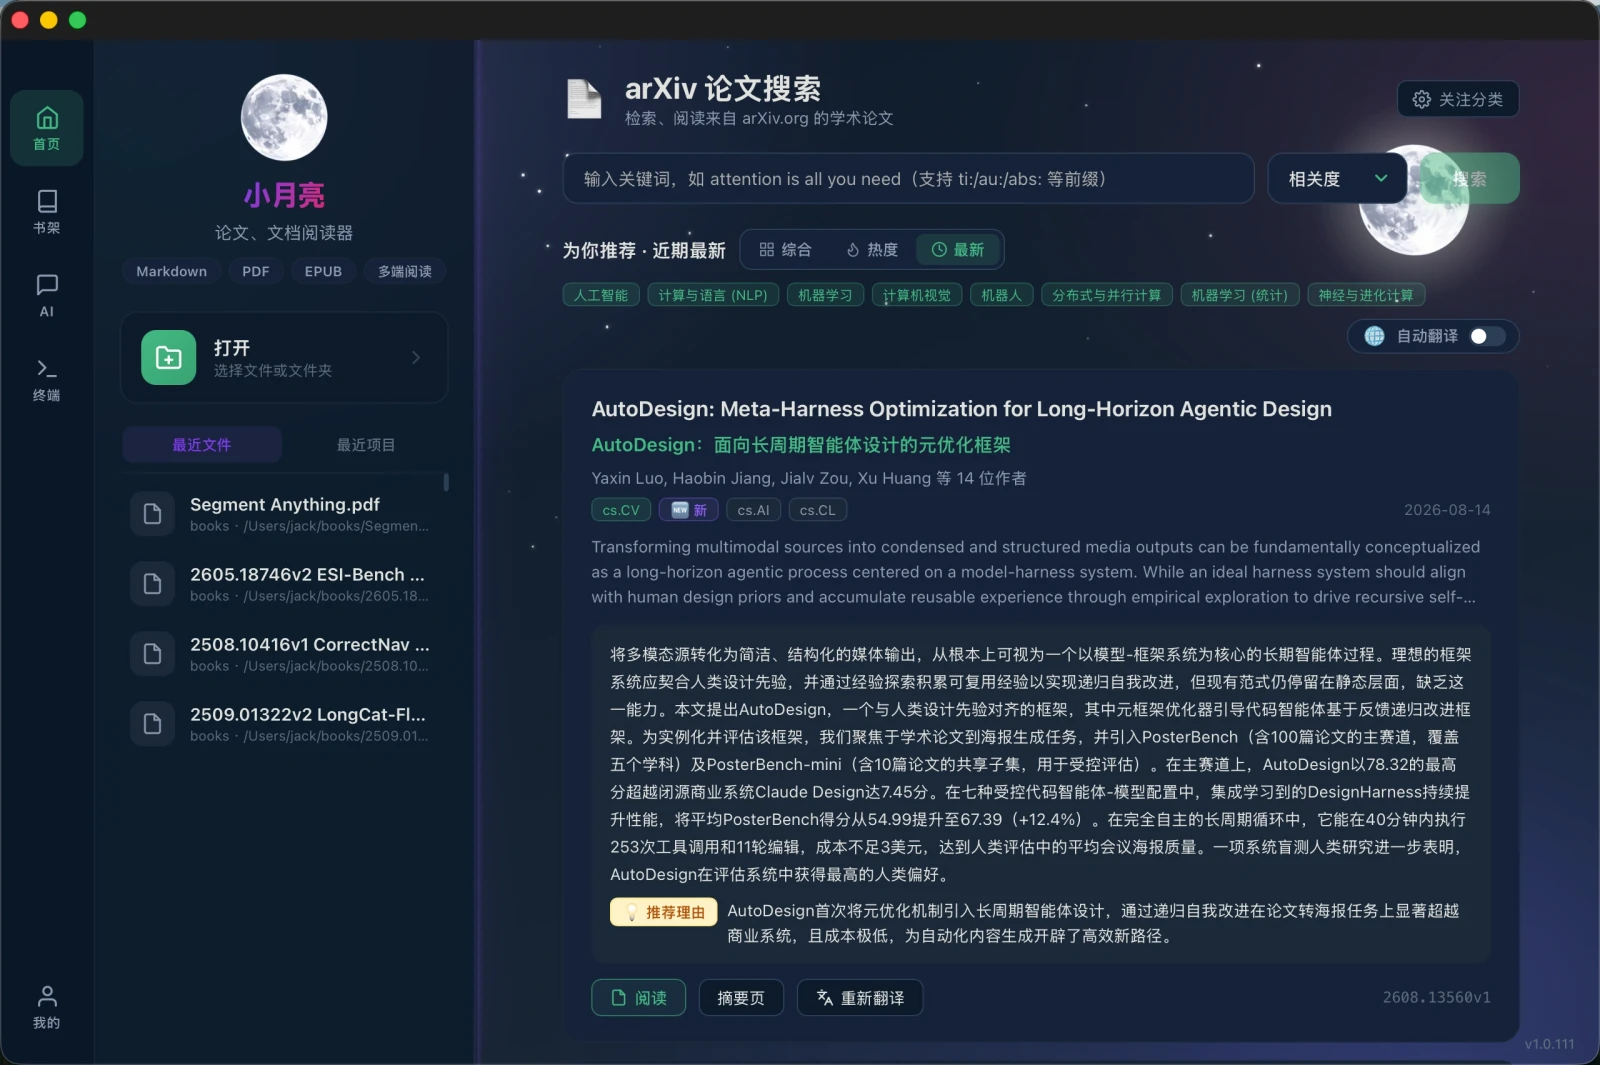
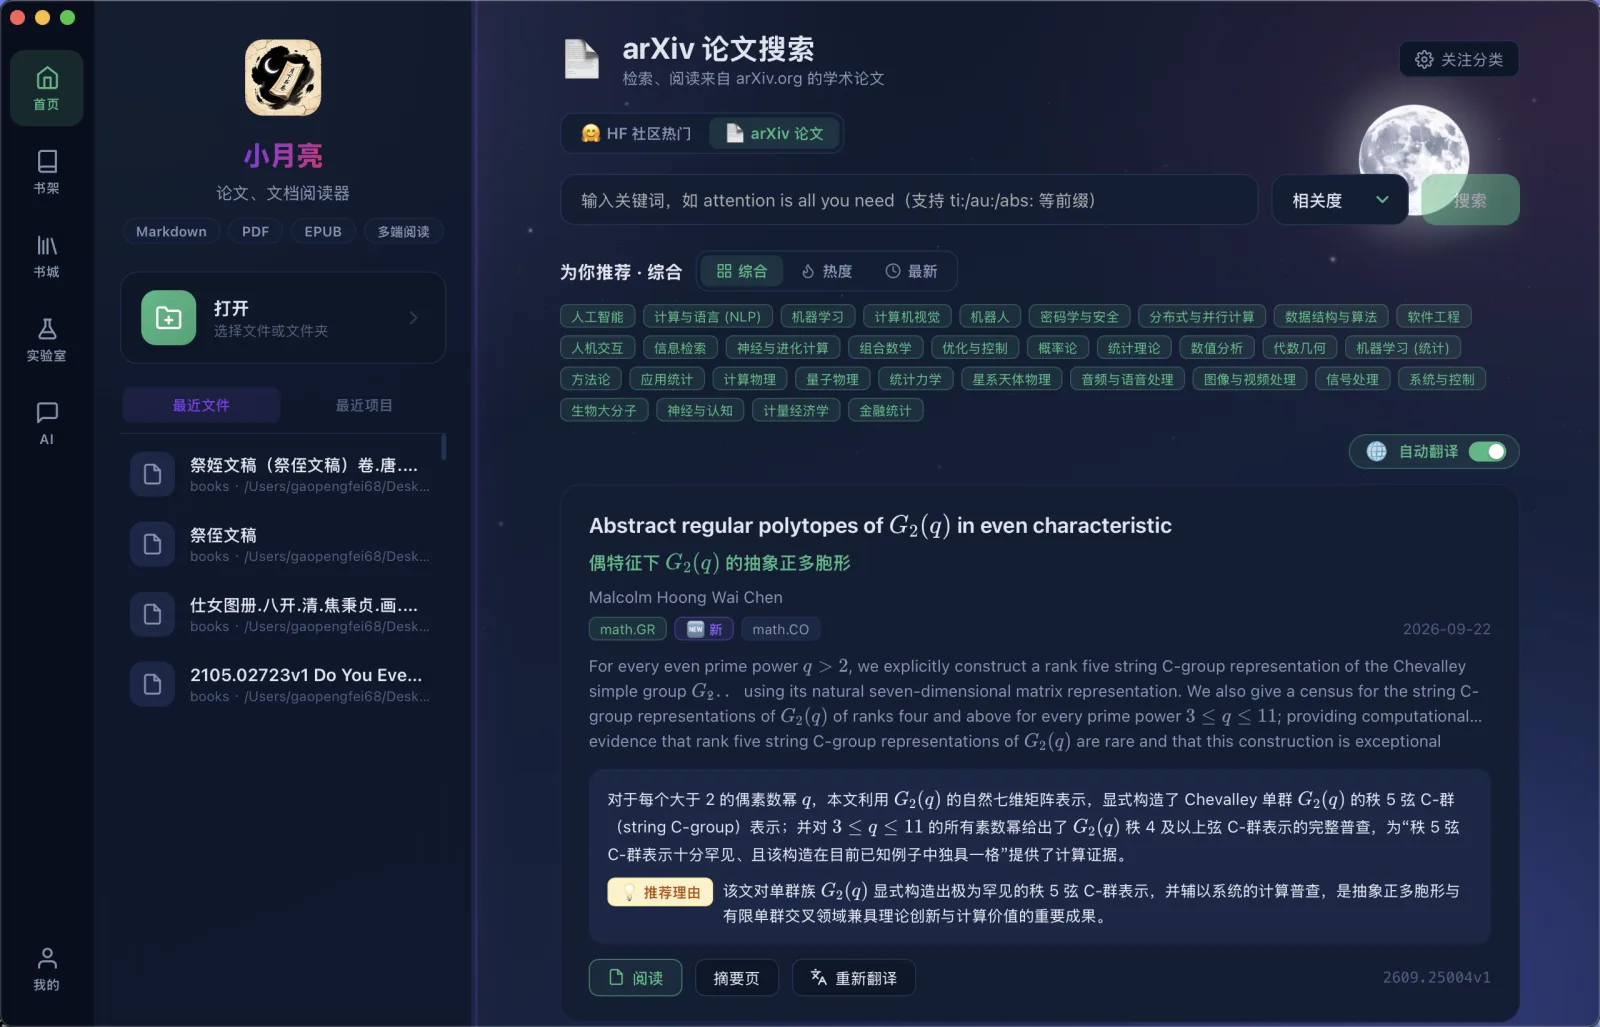
docs(home): 更新 ArXiv 首屏截图至最新版界面

diff --git a/index.html b/index.html
@@ -47,7 +47,7 @@
       <p class="hero-desc">小月亮阅读器 · moon.jdk.plus</p>
     </div>
     <div class="hero-shot-frame">
-      <img src="assets/shot-arxiv.webp" alt="小月亮阅读器 · ArXiv 论文推荐" width="1600" height="1065" fetchpriority="high" decoding="async" />
+      <img src="assets/shot-arxiv.webp" alt="小月亮阅读器 · ArXiv 论文推荐" width="1600" height="1027" fetchpriority="high" decoding="async" />
       <span class="hero-shot-shine" aria-hidden="true"></span>
     </div>
   </section>
@@ -182,7 +182,7 @@
         <div class="show-media" data-tilt>
           <span class="show-index">01</span>
           <div class="show-frame">
-            <img src="assets/shot-arxiv.webp" alt="ArXiv 顶会论文推荐一键阅读" width="1600" height="1065" loading="lazy" />
+            <img src="assets/shot-arxiv.webp" alt="ArXiv 顶会论文推荐一键阅读" width="1600" height="1027" loading="lazy" />
             <span class="show-shine" aria-hidden="true"></span>
           </div>
         </div>
